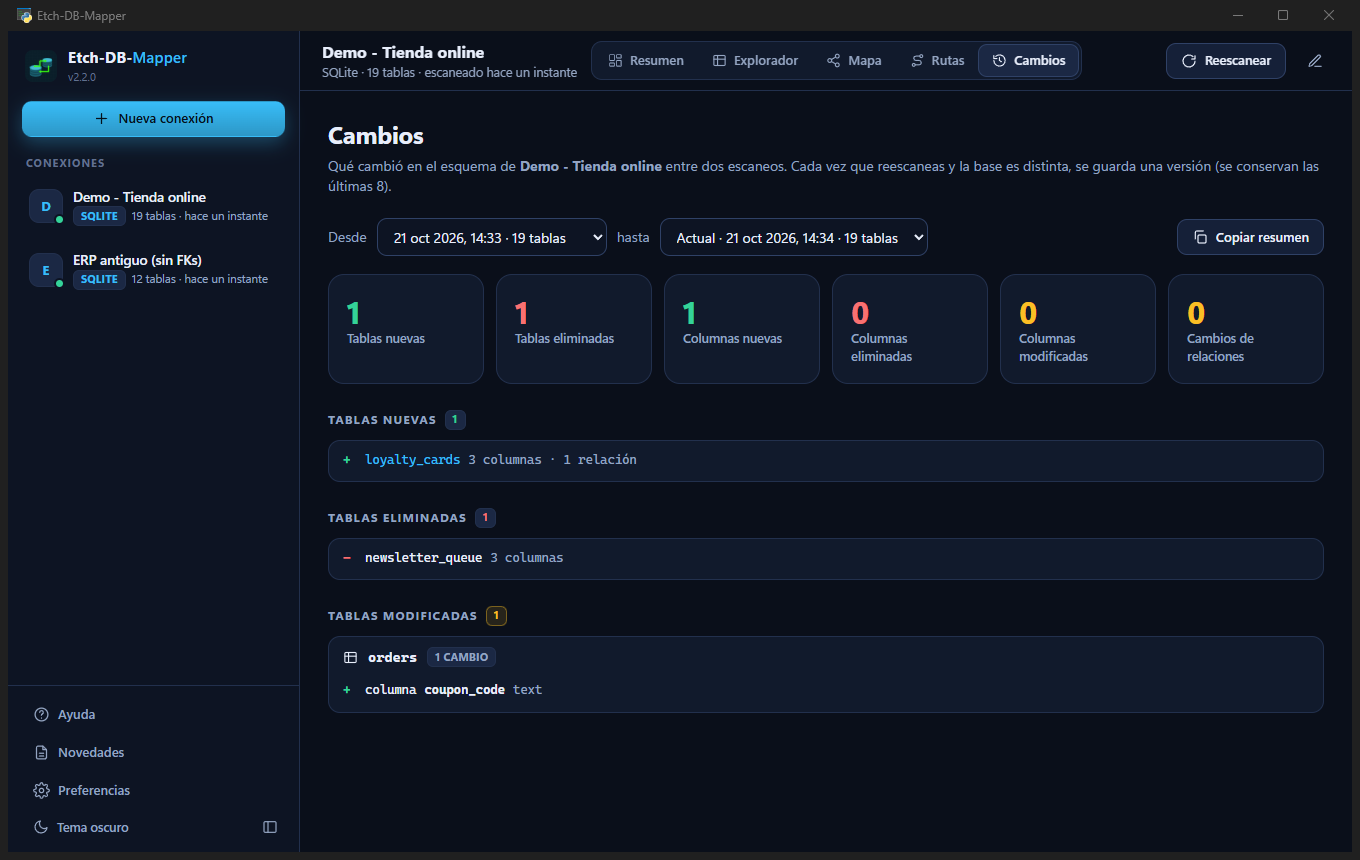
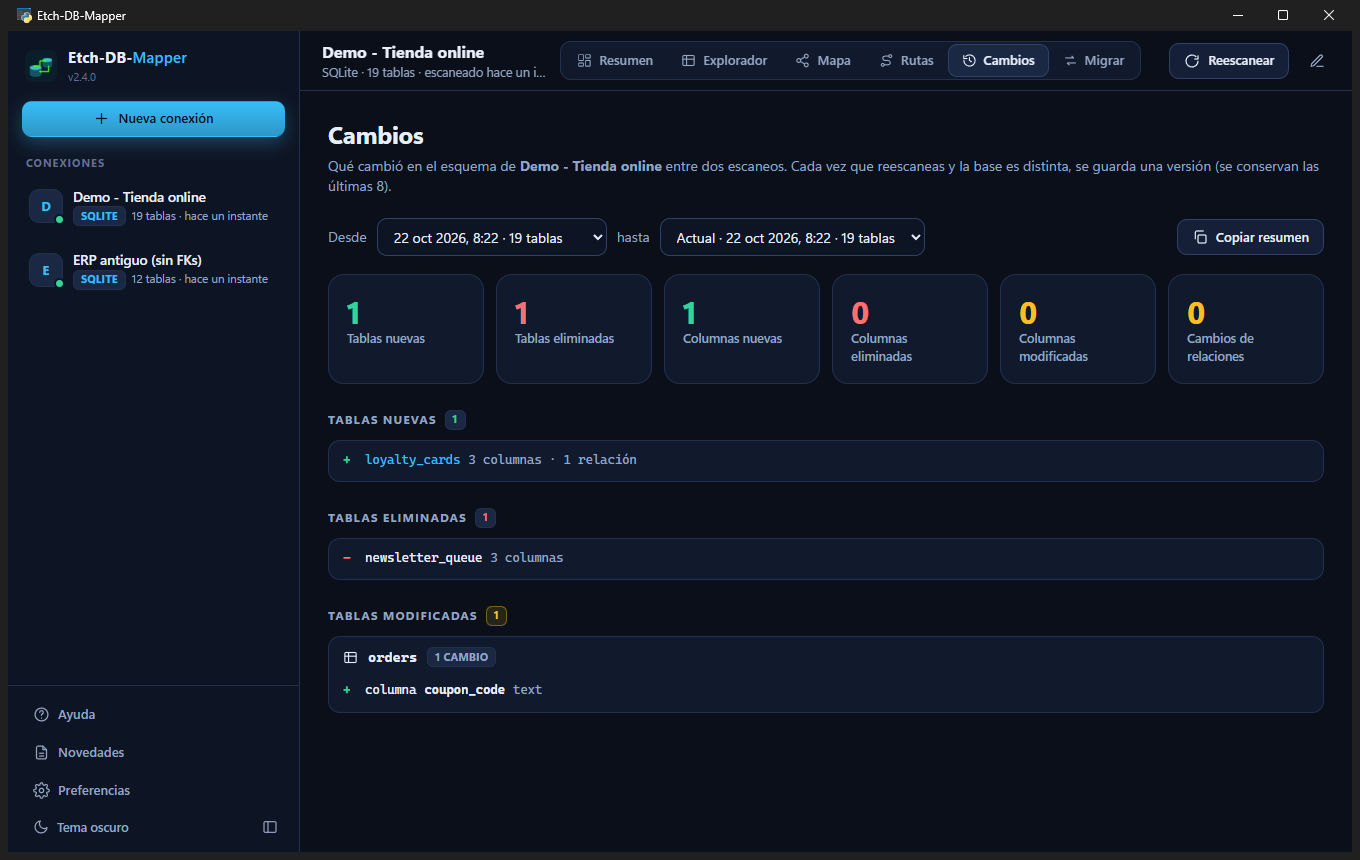
docs: document migration phase 1 and plan the next phases
Adds docs/MIGRATION_PLAN.md (read-only source, empty target, plan, dry run and
verification rules for the data copy), and updates README, HELP, CHANGELOG,
ARCHITECTURE, BACKLOG, SECURITY and the screenshots.

diff --git a/docs/MIGRATION_PLAN.md b/docs/MIGRATION_PLAN.md
@@ -1,0 +1,59 @@
+# Plan de migración entre motores
+
+Objetivo: migrar bases de datos de un motor a otro (SQL Server ⇄ PostgreSQL ⇄ MySQL ⇄ SQLite) con la **base de origen en solo lectura** y un **destino nuevo o vacío**, evitando conflictos y sorpresas. Se hace por fases, de menor a mayor riesgo.
+
+| Fase | Qué hace | Estado | Riesgo |
+|---|---|---|---|
+| **1. Solo esquema** | Genera el script `CREATE TABLE` para el motor destino. No se conecta al destino. | ✅ 2.4.0 | Ninguno |
+| **2. Copiar datos** | Copia los datos al destino vacío, con plan, simulacro y verificación. | 🗓 Diseño | Medio, mitigado por las reglas de abajo |
+| **3. Casos difíciles** | Reanudar, tablas enormes, ciclos de claves, BLOB, zonas horarias… | 🗓 Idea | Alto |
+
+## Fase 1 (hecha): script de esquema
+
+`core/migrate.py` toma el esquema escaneado y produce el SQL del destino. Pestaña **Migrar** de la app; API `plan_migration(alias, destino, opciones)`.
+
+**Qué traduce:** tablas, columnas y tipos (mapa de tipos entre motores), nulabilidad, clave primaria (simple y compuesta), claves foráneas (compuestas incluidas), restricciones UNIQUE, identidad/autoincremento, valores por defecto conocidos, y descripciones (las de la base y las notas del usuario).
+
+**Lo que garantiza el script:**
+- Solo sentencias que **crean** objetos nuevos. Sin `DROP`, `TRUNCATE`, `DELETE`, `UPDATE`, `INSERT` ni `IF NOT EXISTS` (si algo ya existe, falla en vez de pisarlo). Hay una prueba automática que lo comprueba para cada motor.
+- Las claves foráneas van al final (`ALTER TABLE … ADD CONSTRAINT`), así el orden de creación nunca falla por ciclos; en SQLite van dentro de `CREATE TABLE`.
+- Opciones para aislar lo migrado: **esquema nuevo** (PostgreSQL/SQL Server), **prefijo** de tablas y estilo de nombres.
+
+**Lo que no hace (y lo avisa en el informe):** índices no únicos, `CHECK`, reglas `ON DELETE/ON UPDATE`, vistas, procedimientos, triggers y los datos. Todo valor por defecto o tipo que no sabe traducir se omite con una advertencia; **nunca adivina**.
+
+**Casos delicados que ya maneja:**
+- `timestamp` de SQL Server es un contador binario (`rowversion`), no una fecha.
+- Columnas de texto usadas como clave: SQL Server y MySQL no aceptan `MAX`/`TEXT` en una clave, así que se acotan (y las claves foráneas heredan el mismo tipo que el padre).
+- PostgreSQL/MySQL/SQLite guardan Unicode: hacia SQL Server se usa `NVARCHAR` para no perder caracteres.
+- Nombres demasiado largos y colisiones de nombres se marcan como **error**.
+
+**Verificación:** el script de **SQLite** se ejecuta de verdad en las pruebas (incluida una ida y vuelta SQLite → SQLite comparando tablas, columnas, claves y UNIQUE). La sintaxis de PostgreSQL, SQL Server y MySQL está cubierta por pruebas de texto y revisada, pero **no se ha ejecutado contra servidores reales**: prueba el script primero en una base desechable.
+
+## Fase 2 (diseño): copiar los datos
+
+### Reglas de seguridad (innegociables)
+
+1. **El origen es solo lectura, y lo impone la base, no solo la app.** La conexión de origen se abre en una transacción de solo lectura: `SET TRANSACTION READ ONLY` (PostgreSQL), `START TRANSACTION READ ONLY` (MySQL), `ApplicationIntent=ReadOnly` (SQL Server). Si algo intentara escribir, la base lo rechaza.
+2. **El destino debe estar limpio.** Antes de escribir se comprueba que no tenga tablas de usuario (o, con esquema/prefijo nuevo, que no exista nada con esos nombres). Si hay conflicto, **se niega** y explica por qué.
+3. **Nunca sobrescribir ni borrar.** Sin `DROP`, `TRUNCATE`, `DELETE` ni `UPDATE` sobre lo existente.
+4. **Plan antes de ejecutar:** qué se creará, cuántas filas, cuánto tardará aproximadamente. Confirmación escribiendo el nombre del destino.
+5. **Simulacro** (dry run): traduce y valida todo sin escribir nada.
+6. **Todo o nada por tabla** (transacción) y un **informe final**.
+7. **Verificación al terminar:** conteo de filas por tabla y suma de control de columnas clave; las diferencias se muestran, no se ocultan.
+8. Las credenciales del destino se tratan igual que las del origen: cifradas, nunca en registros.
+
+### Diseño técnico
+
+- Orden de copia por dependencias de claves foráneas (padres primero); ciclos con restricciones diferidas o carga en dos pasadas.
+- Lectura por lotes (cursor) y escritura por lotes (`executemany` / `COPY` en PostgreSQL / `BULK INSERT` donde aplique) con progreso por tabla y cancelación.
+- Identidades: insertar valores explícitos (`SET IDENTITY_INSERT ON`, `OVERRIDING SYSTEM VALUE`, etc.) y luego ajustar la secuencia al máximo.
+- Conversión de valores en Python con las mismas reglas del mapa de tipos (booleanos, fechas con zona, `Decimal`, binarios).
+- Cada fila que falle la conversión se registra en un informe de rechazos en lugar de detener todo en silencio.
+
+### Cambios de promesa que hay que documentar al llegar a esta fase
+
+Hoy la app dice «solo lee metadatos». La fase 2 lee datos y escribe en el destino: irá en una sección separada, con consentimiento explícito, y se actualizarán `SECURITY.md` y la ayuda.
+
+## Fase 3 (idea)
+
+Reanudar una copia interrumpida, tablas muy grandes, columnas BLOB, zonas horarias y colaciones, informe de compatibilidad de vistas/procedimientos/triggers («revisar a mano») y mapa de tipos editable por el usuario.

diff --git a/README.md b/README.md
@@ -19,12 +19,13 @@ Detalle completo —incluido lo que el cifrado **no** puede proteger— en [`SEC
 ## Características
 
 - **Asistente de conexión**: elige el tipo de base (PostgreSQL, SQL Server, MySQL, SQLite), completa servidor, usuario y contraseña, **prueba la conexión** y listo. La URI de pydal sigue disponible para quien la prefiere.
-- **Escaneo rápido**: un número fijo de consultas (4 más una opcional de descripciones), sin importar cuántas tablas tenga la base (una de 171 tablas pasó de 513 consultas a 4), con progreso por fases.
+- **Escaneo rápido**: un número fijo de consultas (4 más hasta 3 opcionales: descripciones, detalles de columnas y UNIQUE), sin importar cuántas tablas tenga la base (una de 171 tablas pasó de 513 consultas a 4), con progreso por fases.
 - **Mapa relacional** (Cytoscape.js): enfoque al pasar el mouse, panel de detalle, colores por grupo de tablas, alcance «relacionadas / todas / vecindad», varios layouts, posiciones que se recuerdan, exportar a PNG.
 - **Relaciones probables por nombre**: muchas bases antiguas no declaran claves foráneas. La app deduce `Pedidos.ClienteID → Clientes` por nombres y tipos y las dibuja con línea punteada, siempre como *sugerencias* y con interruptor.
 - **Cambios entre escaneos**: cada vez que el esquema cambia se guarda una versión; compáralas y ve qué tablas, columnas y relaciones se agregaron, quitaron o modificaron (con resumen copiable en Markdown).
 - **Diccionario de datos**: documenta tus tablas y columnas con notas, etiquetas y responsables (se guardan en tu equipo y sobreviven a los reescaneos). La app también lee las **descripciones que la base ya tiene** (`COMMENT ON`, `MS_Description`, `COMMENT=`). Exporta a **Markdown**, **Excel (CSV)** o a un **informe HTML interactivo de un solo archivo**, con el mapa incluido, para compartir sin que el otro instale nada.
 - **Rutas entre tablas**: «¿cómo uno `Pedidos` con `Conductores`?». Encuentra los caminos por claves foráneas (y relaciones probables) y genera el **SQL del JOIN** listo para copiar, para SQL Server, PostgreSQL, MySQL y SQLite. Solo genera texto: no ejecuta nada.
+- **Migrar a otro motor (fase 1)**: genera el **script SQL de creación de tablas** para PostgreSQL, SQL Server, MySQL o SQLite a partir de lo que escaneaste: tipos traducidos, claves primarias y foráneas, UNIQUE, identidades, valores por defecto y descripciones, con un informe de advertencias. **Solo genera texto**: no se conecta al destino ni escribe en ninguna base, y el script solo crea objetos nuevos (sin `DROP`, `TRUNCATE`, `DELETE` ni `UPDATE`). Copiar los datos llegará después, con salvaguardas (ver [`docs/MIGRATION_PLAN.md`](docs/MIGRATION_PLAN.md)).
 - **Explorador** con búsqueda por tabla, columna o nota, filtros (incluido *Sin documentar*), insignias PK/FK y copia de DDL aproximado.
 - **Ayuda y Novedades** dentro de la app, pensadas para usuarios nuevos. Tema oscuro / claro / del sistema, atajos de teclado, 100 % offline.
 
@@ -36,6 +37,7 @@ Detalle completo —incluido lo que el cifrado **no** puede proteger— en [`SEC
 | ![Relaciones probables](docs/images/06-mapa-relaciones-probables.png) **Relaciones probables** (línea punteada) en una base sin claves foráneas | ![Cambios](docs/images/07-cambios.png) **Cambios entre dos escaneos** |
 | ![Documentación](docs/images/11-documentacion.png) **Diccionario de datos**: notas, etiquetas y responsable | ![Rutas](docs/images/12-rutas.png) **Rutas entre tablas** con el SQL del JOIN |
 | ![Informe HTML](docs/images/13-informe-html.png) **Informe HTML** interactivo de un solo archivo | ![Preferencias y seguridad](docs/images/09-preferencias.png) **Preferencias**: contraseñas cifradas y actualizaciones |
+| ![Migración](docs/images/14-migracion.png) **Migrar a otro motor**: opciones, advertencias y tipos | ![Script de migración](docs/images/15-migracion-script.png) **Script SQL** generado para SQL Server |
 | ![Explorador](docs/images/03-explorador.png) **Explorador de tablas** | |
 
 ## Instalación
@@ -57,7 +59,7 @@ Opciones: `--debug` (DevTools con clic derecho → Inspeccionar), `--data-dir RU
 
 1. **Nueva conexión** → nombre, tipo de base y servidor / usuario / contraseña. ¿Prefieres la URI? Pestaña *URI avanzada*, por ejemplo `postgres://usuario:clave@host:5432/base`.
 2. **Probar conexión** y **Guardar y escanear**.
-3. Explora **Resumen**, **Explorador**, **Mapa**, **Rutas** y **Cambios**; documenta tus tablas y exporta el diccionario cuando quieras.
+3. Explora **Resumen**, **Explorador**, **Mapa**, **Rutas**, **Cambios** y **Migrar**; documenta tus tablas y exporta el diccionario cuando quieras.
 
 Más ejemplos de URI por motor, atajos y solución de problemas: [`HELP.md`](HELP.md) (también dentro de la app, en *Ayuda*). ¿Primera vez? Prueba el botón **Probar con una base de ejemplo**.
 
@@ -74,6 +76,7 @@ core/
   inference.py        Relaciones probables por nombre
   joins.py            Caminos entre tablas y generador de JOIN
   docs_export.py      Diccionario de datos: Markdown, CSV e informe HTML
+  migrate.py          Migración fase 1: script de esquema para otro motor
   diff.py             Comparación de dos versiones del esquema
   updates.py          Aviso de versión nueva (opcional)
   logs.py             Registro sin contraseñas

diff --git a/docs/ARCHITECTURE.md b/docs/ARCHITECTURE.md
@@ -16,6 +16,7 @@ Aplicación de escritorio en dos capas que se hablan por un puente de pywebview:
 │   ├─ core/storage.py   Store: db_maps.json + settings.json + snapshots/ (atómico, id estable)
 │   ├─ core/inference.py Relaciones probables por nombre · core/diff.py Comparación de versiones
 │   ├─ core/joins.py     Caminos entre tablas + SQL de JOIN · core/docs_export.py Diccionario: MD/CSV/HTML
+│   ├─ core/migrate.py   Migración fase 1: DDL para otro motor (mapa de tipos, advertencias)
 │   ├─ core/updates.py   Aviso de versión nueva (opcional) · core/logs.py Registro sin contraseñas      │
 │   ├─ core/scanner.py   run_db_scan(uri, progress) → esquema + meta  (pyDAL)               │
 │   └─ core/demo.py, core/paths.py, core/version.py                                         │
@@ -57,6 +58,7 @@ Cada método público de `Api` es invocable desde JS (`Etch.api.metodo(...)` dev
 | `list_versions(alias)`, `compare_versions(alias, newer, older)` | Historial de versiones del esquema y su diferencia |
 | `save_annotation(alias, tabla, columna, campos)` | Nota/etiquetas/responsable de una tabla o nota de una columna (se guarda en `annotations/`) |
 | `find_paths(alias, origen, destino, incluir_probables)` | Caminos entre dos tablas + SQL del JOIN |
+| `list_migration_targets()`, `plan_migration(alias, destino, opciones)` | Migración fase 1: genera el script de esquema para otro motor (solo texto; no se conecta a ningún destino) |
 | `export_docs(alias, formato)` | Diccionario de datos: `markdown`, `csv` o `html` (informe con mapa) |
 | `security_status()` | Estado del cifrado de contraseñas |
 | `check_updates(force)` | Consulta (opcional) la última versión en GitHub |
@@ -118,6 +120,12 @@ Cada escaneo exitoso llama a `Store.add_snapshot()`: guarda el esquema en forma 
 - **Notas del usuario.** `Store.set_annotation()` guarda en `annotations/<id>.json` (clave = nombre de tabla/columna, con límites de tamaño). `get_schema` las devuelve en `annotations`. La descripción efectiva es *nota del usuario > comentario de la base*.
 - **Rutas.** `core/joins.py` arma el grafo con las FK (y las relaciones probables si se pide), busca los caminos simples más cortos (con un presupuesto de expansiones para grafos densos) y los ordena: primero los que solo usan claves reales. `join_sql()` cita los identificadores según el motor y califica con el esquema.
 - **Exportación.** `core/docs_export.py` genera Markdown, CSV (con BOM para Excel) e informe HTML. El informe incrusta Cytoscape (de `webui/vendor/`), los datos como JSON inerte (`</` escapado) y escapa con `html.escape` todo texto de la base o del usuario; no usa recursos remotos.
+
+## Migración (fase 1)
+
+`core/migrate.py::generate_ddl(tables, motor_origen, destino, opciones, descriptions)` convierte el esquema normalizado en un script: `parse_type()` lleva cada tipo de origen a una categoría común (`int`, `decimal`, `varchar`, `datetimetz`, `rowversion`…) y `render_type()` la escribe para el destino con sus advertencias; `translate_default()` solo traduce los valores por defecto que reconoce (nunca adivina). El resultado trae el SQL, la lista de advertencias (`error`/`warn`/`info`), estadísticas y el mapa columna a columna. Las claves foráneas se emiten al final con `ALTER TABLE` (en SQLite van dentro de `CREATE TABLE`). Las columnas usadas como clave se acotan para SQL Server/MySQL.
+
+Para que la traducción sea fiel, el escaneo lee metadatos extra con consultas opcionales (`scanner._column_extras`: valor por defecto, identidad, precisión; `scanner._uniques`). El esquema guardado ahora puede traer por columna `identity`, `default` y `prec`, y por tabla `uniques`; los esquemas guardados por versiones anteriores siguen funcionando (esos campos valen vacío/falso). Esos campos **no** entran en la comparación de versiones (`compact_schema`), para no marcar cambios falsos tras actualizar. Plan completo y reglas de seguridad de las fases siguientes: [`MIGRATION_PLAN.md`](MIGRATION_PLAN.md).
 
 ## Relaciones probables
 

diff --git a/HELP.md b/HELP.md
@@ -83,6 +83,25 @@ Los informes contienen **nombres de tablas y columnas, tipos, relaciones y tus n
 
 La pestaña **Rutas** responde «¿cómo uno la tabla A con la tabla B?». Elige origen y destino (o usa **Camino hasta…** en el Explorador) y verás los caminos más cortos por claves foráneas, con claves reales primero y, si quieres, también relaciones probables. Cada camino trae el **SQL del JOIN** para copiar y un botón para **resaltarlo en el mapa**. La app solo genera el texto; no ejecuta nada en tu base. Los caminos con relaciones probables llevan una advertencia en el SQL.
 
+### Migrar a otro motor (fase 1: script de esquema)
+
+La pestaña **Migrar** genera el **script SQL para crear en otra base las tablas** de la conexión actual:
+
+1. **Elige el motor de destino** (PostgreSQL, SQL Server, MySQL / MariaDB o SQLite).
+2. Ajusta las **opciones** si quieres: un **esquema nuevo** (PostgreSQL / SQL Server) o un **prefijo** para aislar lo migrado, el estilo de nombres, y qué incluir (claves foráneas, UNIQUE, identidades, valores por defecto, descripciones).
+3. Pulsa **Generar script**. Verás el resumen, las **advertencias** (errores, avisos e información), **cómo se traduce cada columna** (tipo de origen → tipo del destino) y el script, que puedes **copiar o guardar como `.sql`**.
+
+Qué tienes que saber:
+
+- **Solo genera texto.** La app no se conecta al destino ni escribe en ninguna base; tu base de origen no se modifica. Tú revisas y ejecutas el script.
+- El script **solo crea objetos nuevos**: no contiene `DROP`, `TRUNCATE`, `DELETE` ni `UPDATE` y no usa `IF NOT EXISTS`, así que si algo ya existe en el destino **falla en vez de pisarlo**. Úsalo en una **base nueva o vacía**; si el destino ya tiene tablas, elige un esquema nuevo o un prefijo.
+- **Revisa las advertencias** antes de ejecutarlo. Cada tipo, valor por defecto o detalle que no se puede traducir con seguridad se omite y se avisa: la app nunca adivina. Los **errores** (por ejemplo, dos tablas que quedarían con el mismo nombre) hay que corregirlos antes.
+- **No se migran** (se avisa): índices no únicos, restricciones `CHECK`, reglas `ON DELETE/ON UPDATE`, vistas, procedimientos almacenados, triggers ni los datos.
+- Para una traducción fiel conviene **reescanear** la conexión (a partir de la 2.4 el escaneo lee precisión de decimales, identidades, valores por defecto y UNIQUE).
+- **Prueba el script primero en una base desechable.** Los scripts de SQLite se verifican ejecutándolos; los de PostgreSQL, SQL Server y MySQL están revisados, pero no probados contra servidores reales.
+
+Copiar los **datos** llegará en una fase posterior, con más salvaguardas (el origen en modo solo lectura impuesto por la base, destino obligatoriamente vacío, plan y simulacro previos y verificación al final). Más detalle en `docs/MIGRATION_PLAN.md` del repositorio.
+
 ### Cambios
 
 La pestaña **Cambios** compara dos versiones del esquema de la misma conexión. Cada vez que reescaneas y el esquema es distinto, se guarda una versión nueva (se conservan las últimas 8). Verás qué **tablas, columnas y relaciones** se agregaron, quitaron o modificaron (tipo, nulabilidad, clave primaria), con un resumen que puedes copiar en Markdown. Tras un escaneo que encuentra diferencias, la app te avisa. Es ideal para detectar qué cambió en una base entre dos despliegues.
@@ -111,7 +130,7 @@ El mapa dibuja las tablas como nodos y las claves foráneas como flechas (`tabla
 | `Ctrl+N` | Nueva conexión |
 | `Ctrl+K` o `/` | Buscar tablas |
 | `F5` | Reescanear la conexión actual |
-| `Alt+1` … `Alt+5` | Resumen, Explorador, Mapa, Rutas, Cambios |
+| `Alt+1` … `Alt+6` | Resumen, Explorador, Mapa, Rutas, Cambios, Migrar |
 | `Ctrl+B` | Mostrar u ocultar la barra lateral |
 | `?` | Abrir esta ayuda |
 | `Esc` | Cerrar diálogos, limpiar la búsqueda |

diff --git a/CHANGELOG.md b/CHANGELOG.md
@@ -2,6 +2,22 @@
 
 Historial de cambios de Etch-DB-Mapper. El formato sigue [Keep a Changelog](https://keepachangelog.com/es-ES/1.1.0/) y las versiones siguen [SemVer](https://semver.org/lang/es/).
 
+## [2.4.0] - 2026-10-22
+
+### Nuevo
+- **Pestaña Migrar** (`Alt+6`), fase 1 de la migración entre motores: genera el **script SQL de creación de tablas** para PostgreSQL, SQL Server, MySQL o SQLite con tipos traducidos, claves primarias y foráneas (también compuestas), UNIQUE, identidad/autoincremento, valores por defecto traducibles y descripciones (las de la base y tus notas).
+- Informe de **advertencias** (errores, avisos, información) y vista de **cómo se traduce cada columna**.
+- Opciones para aislar lo migrado: **esquema nuevo**, **prefijo** de tablas y estilo de nombres; incluir o no claves foráneas, UNIQUE, identidades, valores por defecto y descripciones. Guardar como `.sql` o copiar.
+- El escaneo ahora lee también **precisión de decimales, identidades, valores por defecto y restricciones UNIQUE** (consultas opcionales de solo lectura: si fallan, el escaneo sigue igual). Verificado contra un PostgreSQL real.
+- `docs/MIGRATION_PLAN.md`: diseño de las fases siguientes (copiar datos con el origen en solo lectura impuesto por la base y destino obligatoriamente vacío).
+
+### Seguridad
+- Esta fase **no se conecta a ningún destino ni escribe en ninguna base**. El script solo crea objetos nuevos: sin `DROP`, `TRUNCATE`, `DELETE`, `UPDATE`, `INSERT` ni `IF NOT EXISTS` (una prueba automática lo verifica para cada motor).
+
+### Cambiado
+- Las columnas de texto usadas como clave se acotan en SQL Server y MySQL (no admiten `MAX`/`TEXT` en una clave) y las claves foráneas heredan el mismo tipo que su tabla padre.
+- El escaneo suma dos consultas opcionales (detalles de columnas y UNIQUE): hasta 7 en total.
+
 ## [2.3.0] - 2026-10-21
 
 Versión «documental»: la app ahora sirve también para documentar y compartir lo que descubre.

diff --git a/SECURITY.md b/SECURITY.md
@@ -34,6 +34,10 @@ Por eso recomendamos, además: usar **cuentas de solo lectura** en las bases, no
 
 Solo el catálogo del motor (`INFORMATION_SCHEMA`, `sys.*`, `pragma_*` de SQLite). Son consultas fijas, sin parámetros ni texto tuyo concatenado en el SQL, y un número constante de ellas (no una por tabla). El código está en `core/scanner.py`. La opción *Probar conexión* ejecuta un `SELECT 1`.
 
+## Migración entre motores
+
+La **fase 1** (2.4.0) solo **genera un script SQL**: no abre ninguna conexión al destino y no escribe en ninguna base. El script contiene únicamente sentencias que crean objetos nuevos (sin `DROP`, `TRUNCATE`, `DELETE`, `UPDATE` ni `IF NOT EXISTS`), de modo que ejecutarlo contra una base que ya tiene esas tablas falla en lugar de pisarlas. Lo ejecutas tú, donde y cuando decidas. La copia de datos (fase 2) todavía no existe; cuando llegue cambiará la promesa de «solo metadatos» y vendrá con las reglas descritas en [`docs/MIGRATION_PLAN.md`](docs/MIGRATION_PLAN.md): origen en solo lectura impuesto por la propia base, destino obligatoriamente vacío, plan y simulacro previos.
+
 ## Notas e informes exportados
 
 Las notas, etiquetas y responsables que escribes se guardan en tu carpeta de datos (`annotations/`), nunca en tu base. Los informes exportables (Markdown, CSV, HTML) incluyen **nombres de tablas y columnas, tipos, relaciones y tus notas**, y **nunca** datos de las tablas, URI ni contraseñas; antes de generar el HTML la app te lo recuerda. Aun así, los nombres de tablas y las notas pueden ser información sensible de tu organización: revísalos antes de compartirlos. El informe HTML es autocontenido (sin recursos remotos) y escapa todo texto, de modo que una nota o un nombre de tabla malicioso no puede ejecutar código al abrirlo.

diff --git a/docs/BACKLOG.md b/docs/BACKLOG.md
@@ -176,3 +176,16 @@ vaya trabajando.
 - [ ] Importar/exportar las notas (JSON) para compartirlas entre equipos o conexiones.
 - [ ] «Dónde se usa esta columna»: columnas del mismo nombre en otras tablas.
 - [ ] Revisión de calidad: FK sin índice, columnas del mismo nombre con distinto tipo.
+
+### 2.4.0 — migración, fase 1
+- [x] Pestaña Migrar: script de creación de tablas para PostgreSQL, SQL Server, MySQL y SQLite (`core/migrate.py`).
+- [x] Metadatos extra en el escaneo: identidad, valores por defecto, precisión de decimales y UNIQUE.
+- [x] Plan de las fases 2 y 3 con las reglas de seguridad (`MIGRATION_PLAN.md`).
+
+### Migración — siguientes pasos
+- [ ] **Probar los scripts de PostgreSQL, SQL Server y MySQL contra servidores reales** (hoy solo SQLite se ejecuta en las pruebas).
+- [ ] Fase 2: copia de datos con origen en solo lectura impuesto por la base, destino obligatoriamente vacío, plan, simulacro y verificación.
+- [ ] Índices no únicos, `CHECK` y reglas `ON DELETE/ON UPDATE` en el script.
+- [ ] Elegir qué tablas migrar desde la interfaz (la API ya admite `only`).
+- [ ] Informe de compatibilidad de vistas, procedimientos y triggers («revisar a mano»).
+- [ ] Mapa de tipos editable por el usuario.

diff --git a/docs/README.md b/docs/README.md
@@ -13,6 +13,7 @@
   formato del esquema, cómo agregar un lector para otro motor.
 - [STACK_EXPLORATION.md](STACK_EXPLORATION.md) — por qué se migró de
   CustomTkinter a pywebview + HTML/CSS/JS.
+- [MIGRATION_PLAN.md](MIGRATION_PLAN.md) — migración entre motores: fase 1 (hecha) y diseño de las siguientes.
 - [LINUX_PLAN.md](LINUX_PLAN.md) — plan de soporte para Linux.
 - [RELEASE_PLAN.md](RELEASE_PLAN.md) — compilar y publicar (`.exe` + instalador).
 - [FUTURE_PLANS.md](FUTURE_PLANS.md) — hacia dónde va el proyecto.
